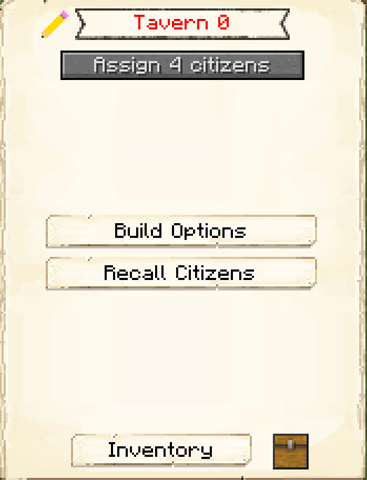
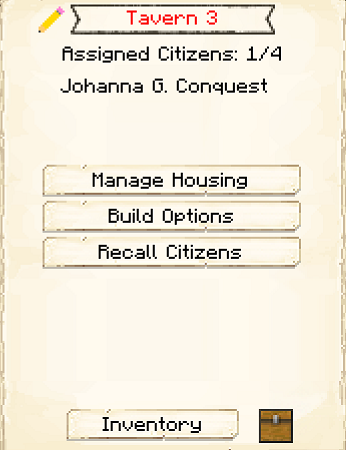
Tavern update (#809)
* Tavern update

* Update tavern.md

* Removing double spaces

Changed region(s): [[0.1156, 0.3422, 0.8671, 0.6222], [0.0, 0.0, 1.0, 1.0], [0.1156, 0.0, 0.8382, 0.2178]]

diff --git a/pages/src/_includes/infobox/building.html b/pages/src/_includes/infobox/building.html
@@ -1,4 +1,4 @@
-{% assign key = include.key | strip | default "" %}
+{% assign key = include.key | strip | default: "" %}
 {% if key != "" %}
     {% assign building = site.data.buildinginfo[key] %}
     {% assign blocks = "" | split: "" %}
@@ -28,9 +28,18 @@
     {% if building.recipes | size != 0 %}
         {% capture recipeblock %}
             {% for recipe in building.recipes %}
+                {% assign recipe_key = recipe %}
+                {% assign recipe_label = "" %}
+                {% if recipe.recipe != null %}
+                {% assign recipe_key = recipe.recipe %}
+                {% assign recipe_label = recipe.label | default: "" %}
+                {% endif %}
                 <div class="row section-text text-center infobox-recipe-row">
                     <div class="col-12">
-                        <recipe>{{ recipe }}</recipe>
+                        {% if recipe_label != "" %}
+                        <p class="m-0">{{ recipe_label }}</p>
+                        {% endif %}
+                        <recipe>{{ recipe_key }}</recipe>
                     </div>
                 </div>
             {% endfor %}

diff --git a/pages/src/source/buildings/tavern.md b/pages/src/source/buildings/tavern.md
@@ -12,7 +12,7 @@ Upgrading the Tavern will garner more and better visitors.
 
 Recruiting used to be part of the [Town Hall](../../source/buildings/townhall) but has been moved here.
 
-<strong>Note:</strong> The Tavern can only be upgraded to level 3, not level 5. You can also only have 1 Tavern per colony.
+**Note:** The Tavern can only be upgraded to level 3, not level 5. You can also only have 1 Tavern per colony.
 {% endcapture %}
 {% capture infobox %}
 {% include infobox/building.html key="tavern" %}
@@ -21,19 +21,10 @@ Recruiting used to be part of the [Town Hall](../../source/buildings/townhall) b
 
 ## Tavern GUI
 
-When accessing the Tavern's hut block by right-clicking on it, you will see a GUI with different options:
-
 <div class="row">
-  <div class="col-sm-12 col-md">
-    <img src="../../assets/images/gui/taverngui.png" class="img-fluid mx-auto" alt="Tavern Hut GUI">
+  <div class="col">
+    {% include contentblock/main-gui.html data=site.data.gui.citizen header="When accessing the Tavern hut block by right-clicking on it, you will see a GUI with different options. You start on the main tab:" image="../../assets/images/gui/taverngui.png" %}
+
+    {% include contentblock/basic.html header="You reach this screen by clicking <strong>Manage Housing</strong> on the main tab." content="If the Tavern is filled, you will need to <strong>Unassign</strong> a citizen before being able to add new citizens. Each citizen will be listed, starting with the residents of the Tavern. Citizens will show their occupation, the distance from their work hut to the Tavern, and the distance from their work hut to their current house. If the second line is green, the Tavern is closer to their work hut. If it's yellow, it's farther. <br><br><strong>Building Assignment Mode</strong> allows you to override the Townhall's housing setting, for the Tavern only." image="../../assets/images/gui/housegui2.png" %}
   </div>
-  <div class="col-sm-12 col-md">
-    <br>
-    <ul>
-      {% for item in site.data.gui.citizen %}
-        <li><strong>{{ item.button }}:</strong> {{ item.content }}</li>
-      {% endfor %}
-    </ul>
-  </div>
-</div>  
-  
+</div>
